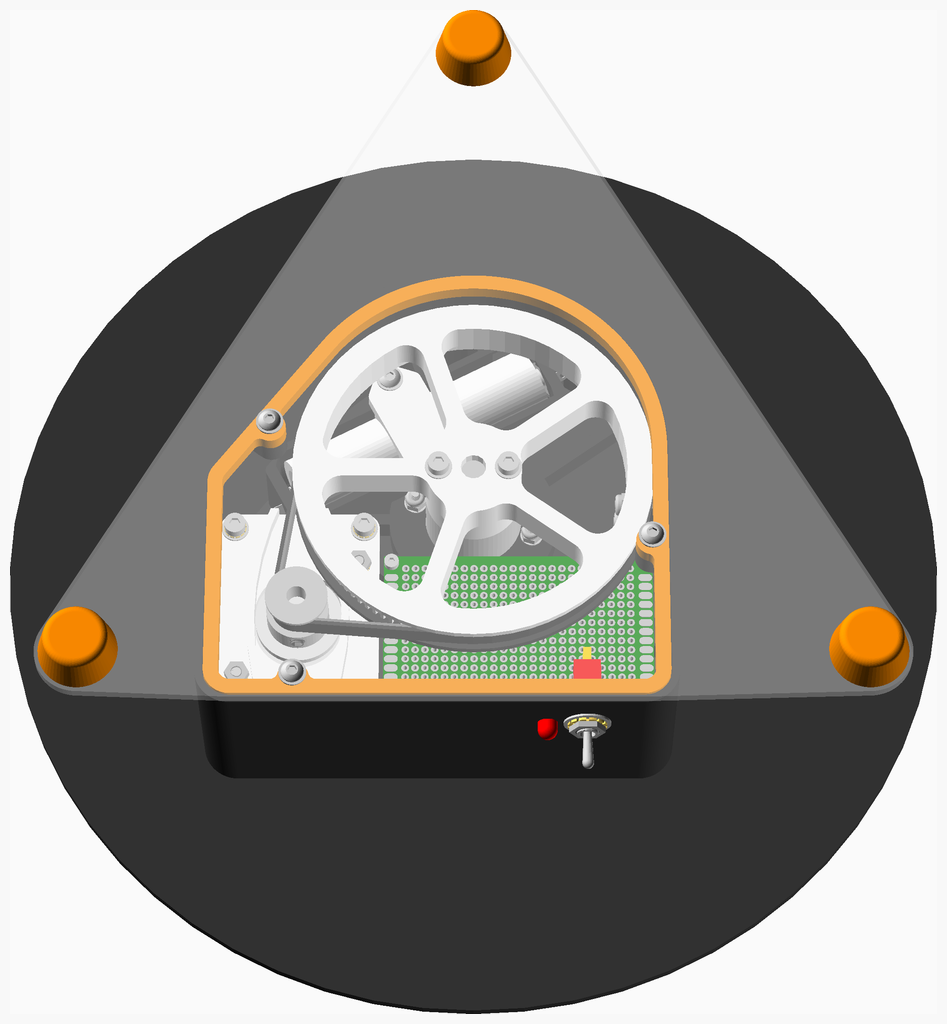
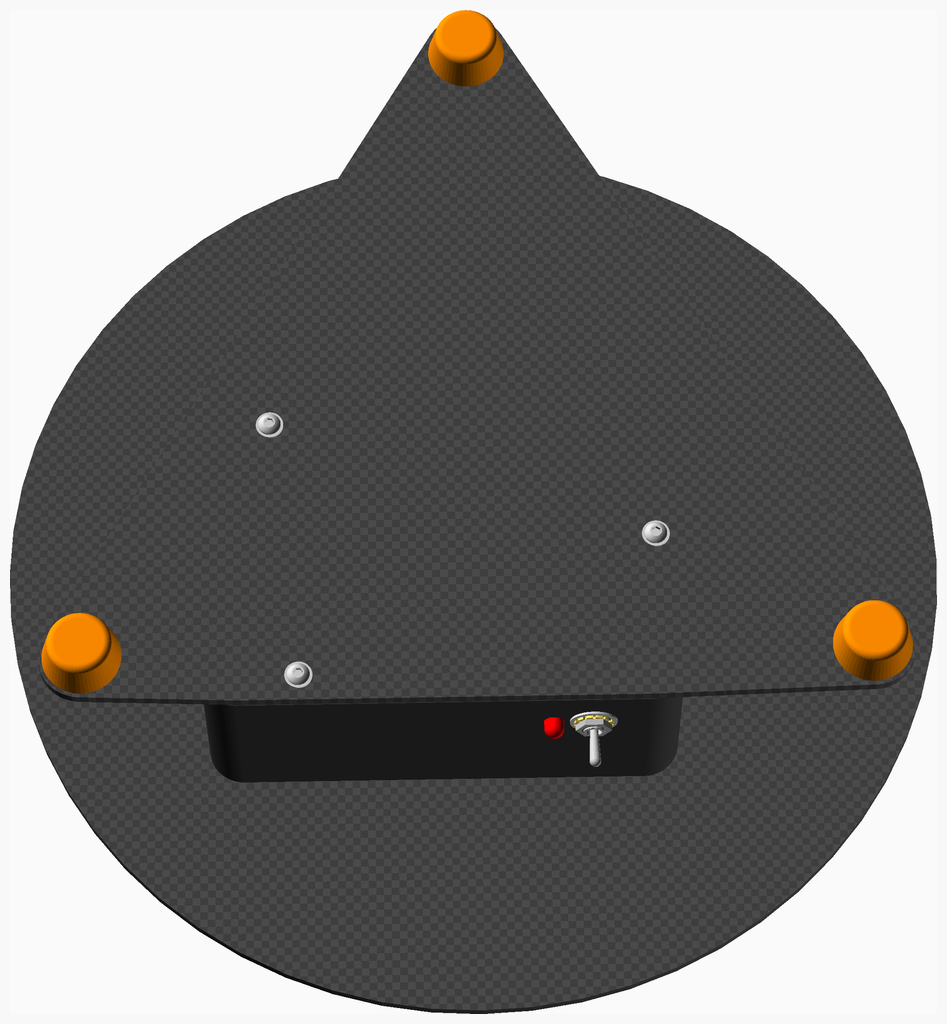
Updated gallery images

diff --git a/gallery/readme.md b/gallery/readme.md
@@ -95,6 +95,8 @@ WiFi enabled remote control turntable for photography
 
 ![](Turntable.png)
 
+Was actually made from DiBond but shown made with carbon fibre here.
+
 
 <a name="TOP"></a>
 ## Variac
